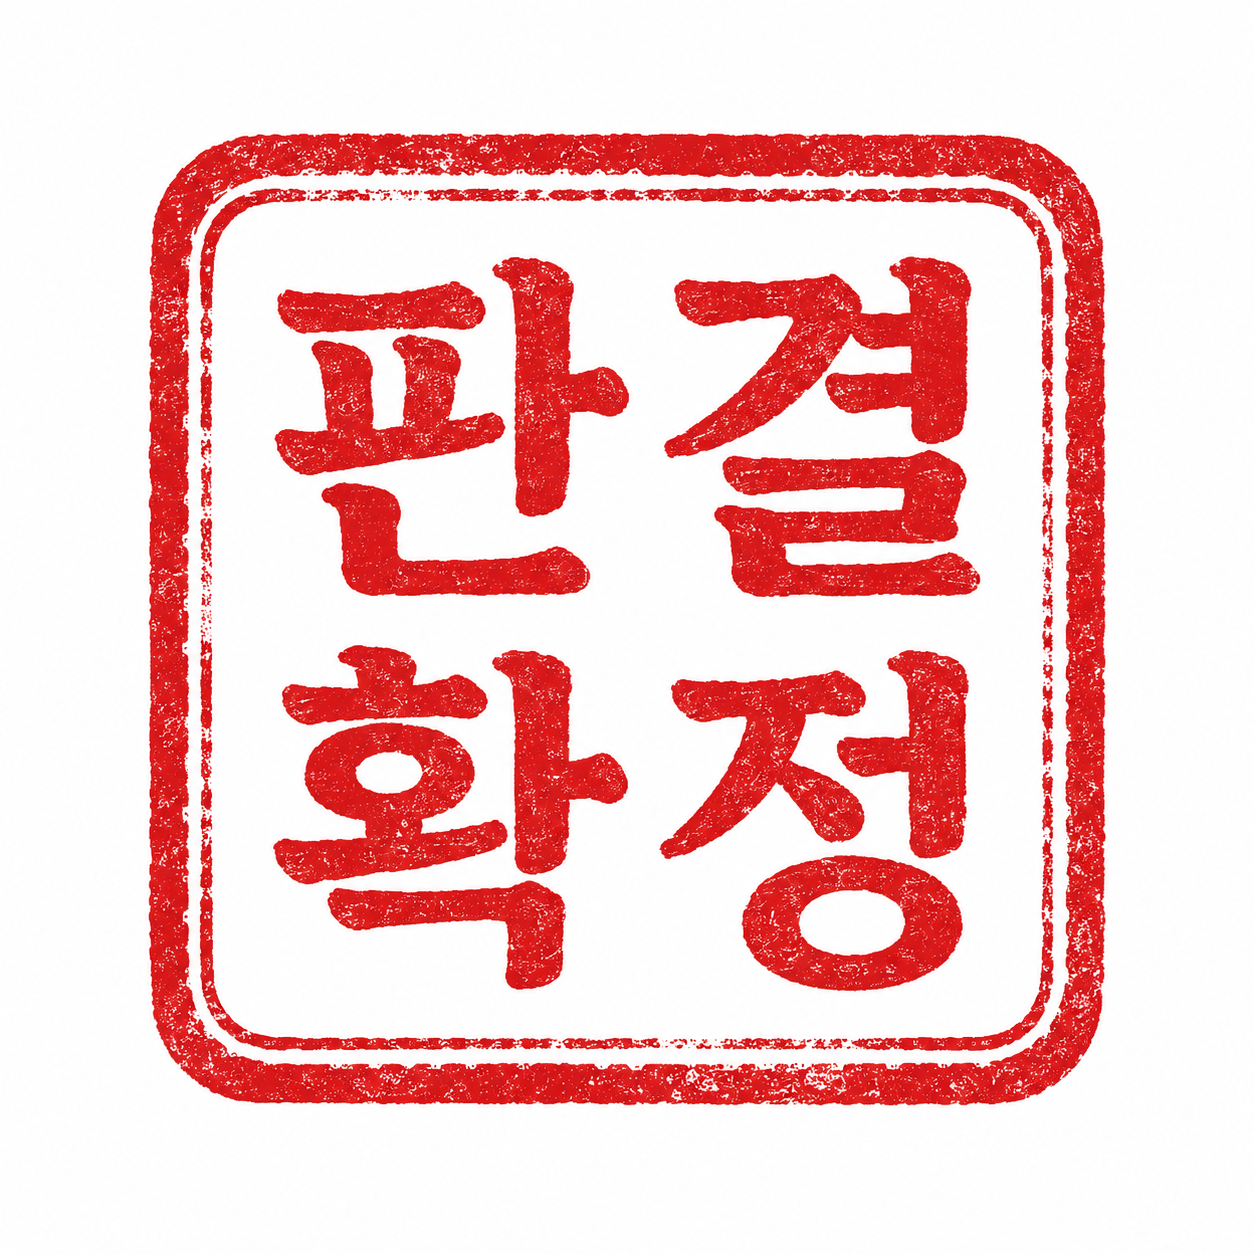
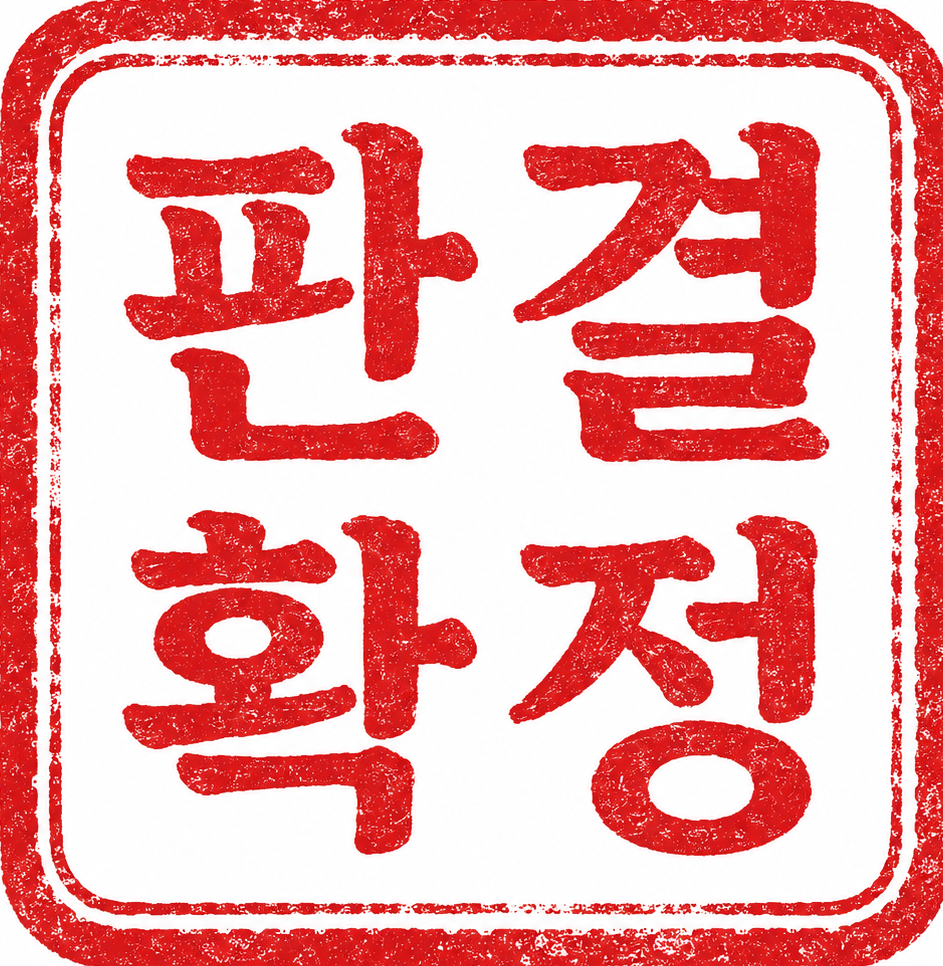
fix: 이슈 및 수정 사항 반영

diff --git a/src/App.tsx b/src/App.tsx
@@ -3,6 +3,7 @@ import { commonVerdicts, otakuVerdicts, stockVerdicts, foodVerdicts, loadingMess
 import { CATEGORY_WEIGHTS, conversions, VERDICT_LABELS } from "./data/config";
 type VerdictType = keyof typeof commonVerdicts | keyof typeof otakuVerdicts | keyof typeof stockVerdicts | keyof typeof foodVerdicts;
 import LOGO from "./assets/jangba_daebeopgwan.png";
+import STAMP_PNG from "./assets/confirm.png";
 
 interface VerdictResult {
   caseNumber: string;
@@ -33,6 +34,7 @@ function App() {
   const [isLoading, setIsLoading] = useState(false);
   const [progress, setProgress] = useState(0);
   const [messageIndex, setMessageIndex] = useState(0);
+  const [showStamp, setShowStamp] = useState(false);
 
   useEffect(() => {
     if (!isLoading) return;
@@ -52,6 +54,22 @@ function App() {
     return () => clearInterval(interval);
   }, [isLoading]);
 
+  const createResult = () => {
+    const randomType = getWeightedVerdict() as VerdictType;
+
+    const resultVerdictComment = CATEGORY_LABELS[category];
+    const comments = resultVerdictComment[randomType];
+    const randomComment = comments[Math.floor(Math.random() * comments.length)];
+
+    setResult({
+      caseNumber: `${new Date().getFullYear()}-장바-${Math.floor(Math.random() * 9999)}`,
+      type: randomType,
+      label: VERDICT_LABELS[randomType],
+      comment: randomComment,
+      opCost: generateCostInfo(parseFloat(price) || 0),
+    });
+  };
+
   const generateCostInfo = (price: number) => {
     const random = conversions[Math.floor(Math.random() * conversions.length)];
 
@@ -69,21 +87,14 @@ function App() {
     setTimeout(() => {
       clearInterval(progressInterval);
       setProgress(100);
-      const randomType = getWeightedVerdict() as VerdictType;
 
-      const resultVerdictComment = CATEGORY_LABELS[category];
-
-      const comments = resultVerdictComment[randomType];
-
-      const randomComment = comments[Math.floor(Math.random() * comments.length)];
-
-      setResult({
-        caseNumber: `${new Date().getFullYear()}-장바-${Math.floor(Math.random() * 9999)}`,
-        type: randomType,
-        label: VERDICT_LABELS[randomType],
-        comment: randomComment,
-        opCost: generateCostInfo(parseFloat(price) || 0),
-      });
+      setResult(null);
+      setShowStamp(true);
+      setTimeout(() => {
+        createResult();
+        setShowStamp(false);
+        setIsLoading(false);
+      }, 2000);
 
       setIsLoading(false);
     }, TOTAL_LOADING_TIME);
@@ -126,6 +137,11 @@ function App() {
         </div>
       )}
       <div>{loadingMessages[messageIndex]}</div>
+      {showStamp && (
+        <div className="stamp-overlay">
+          <img src={STAMP_PNG} alt="판결확정" className="stamp-animation" />
+        </div>
+      )}
       {!isLoading && result && (
         <div className="result-card">
           <div className="court-header">대한민국 장바구니 대법원</div>

diff --git a/src/index.css b/src/index.css
@@ -81,3 +81,44 @@ button {
   background: #3b82f6;
   transition: width 0.3s ease-in-out;
 }
+
+.stamp-overlay {
+  position: fixed;
+  inset: 0;
+  display: flex;
+  justify-content: center;
+  align-items: center;
+  pointer-events: none;
+  z-index: 9999;
+  border-radius: 20px;
+}
+
+.stamp-animation {
+  width: 320px;
+
+  transform: scale(4) rotate(-15deg);
+  opacity: 0;
+
+  animation: stampHit 0.7s ease-out forwards;
+}
+
+@keyframes stampHit {
+  0% {
+    opacity: 0;
+    transform: scale(4) rotate(-15deg);
+  }
+
+  60% {
+    opacity: 1;
+    transform: scale(0.9) rotate(-15deg);
+  }
+
+  80% {
+    transform: scale(1.05) rotate(-15deg);
+  }
+
+  100% {
+    opacity: 1;
+    transform: scale(1) rotate(-15deg);
+  }
+}